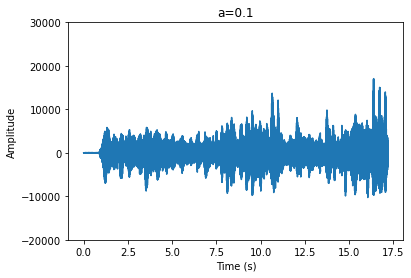
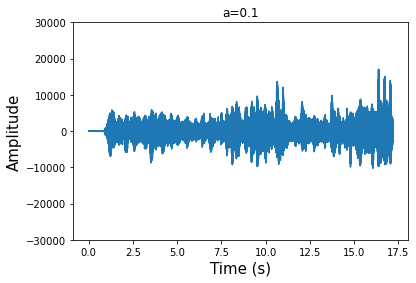
font size update

diff --git a/jennifer/audio_watermark.py b/jennifer/audio_watermark.py
@@ -92,13 +92,13 @@ def specgraph(data,text):
         plt.specgram(data[:,0], Fs=FS, NFFT=128, noverlap=0)  # plot
         plt.xlabel('Time (s)')
         plt.ylabel('Frequency')
-        plt.rc('axes', labelsize=16)
+        plt.rc('axes', labelsize=18)
         plt.title(text) # label
     else:
         plt.specgram(data, Fs=FS, NFFT=128, noverlap=0)  # plot
         plt.xlabel('Time (s)')
         plt.ylabel('Frequency')
-        plt.rc('axes', labelsize=16)
+        plt.rc('axes', labelsize=18)
         plt.title(text) # label
     plt.show()
     
@@ -111,9 +111,10 @@ def ampgraph(data,text):
         snd_mono = snd
     num_samples = snd_mono.size
     plt.plot(np.arange(num_samples) / sample_rate, snd_mono)
+    plt.ylim([-30000,30000])
     plt.xlabel('Time (s)')
     plt.ylabel('Amplitude')
-    plt.rc('axes', labelsize=16)
+    plt.rc('axes', labelsize=18)
     plt.title(text)
     plt.show()
 
